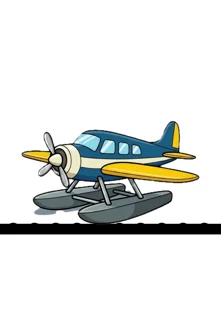
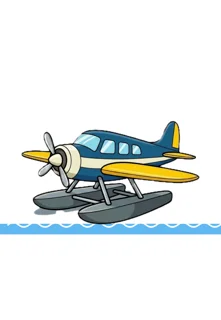
App veicoli: mare azzurro con onde per l'idrovolante
Claude-Session: https://claude.ai/code/session_01DCiDM1v7rbVqszCP1pxbL8

Changed region(s): [[0.0, 0.6875, 1.0, 0.75]]

diff --git a/veicoli/I.html b/veicoli/I.html
@@ -80,6 +80,8 @@ body{margin:0;height:100vh;height:100dvh;overflow:hidden;background:linear-gradi
   .hop #plane, .rolling #plane, .rolling .water, .rolling .wave, .rolling .spray, .rolling .spark, .pop { animation: none; }
   .rolling .wave { opacity: .5; }
 .stage svg{position:absolute;inset:8px;width:calc(100% - 16px);height:calc(100% - 16px);display:block;}
+.sea{fill:#5fb8f0;}
+.water path{fill:none;stroke:#ffffff;stroke-width:6;stroke-linecap:round;stroke-linejoin:round;}
 </style></head>
 <body>
 <main class="app">
